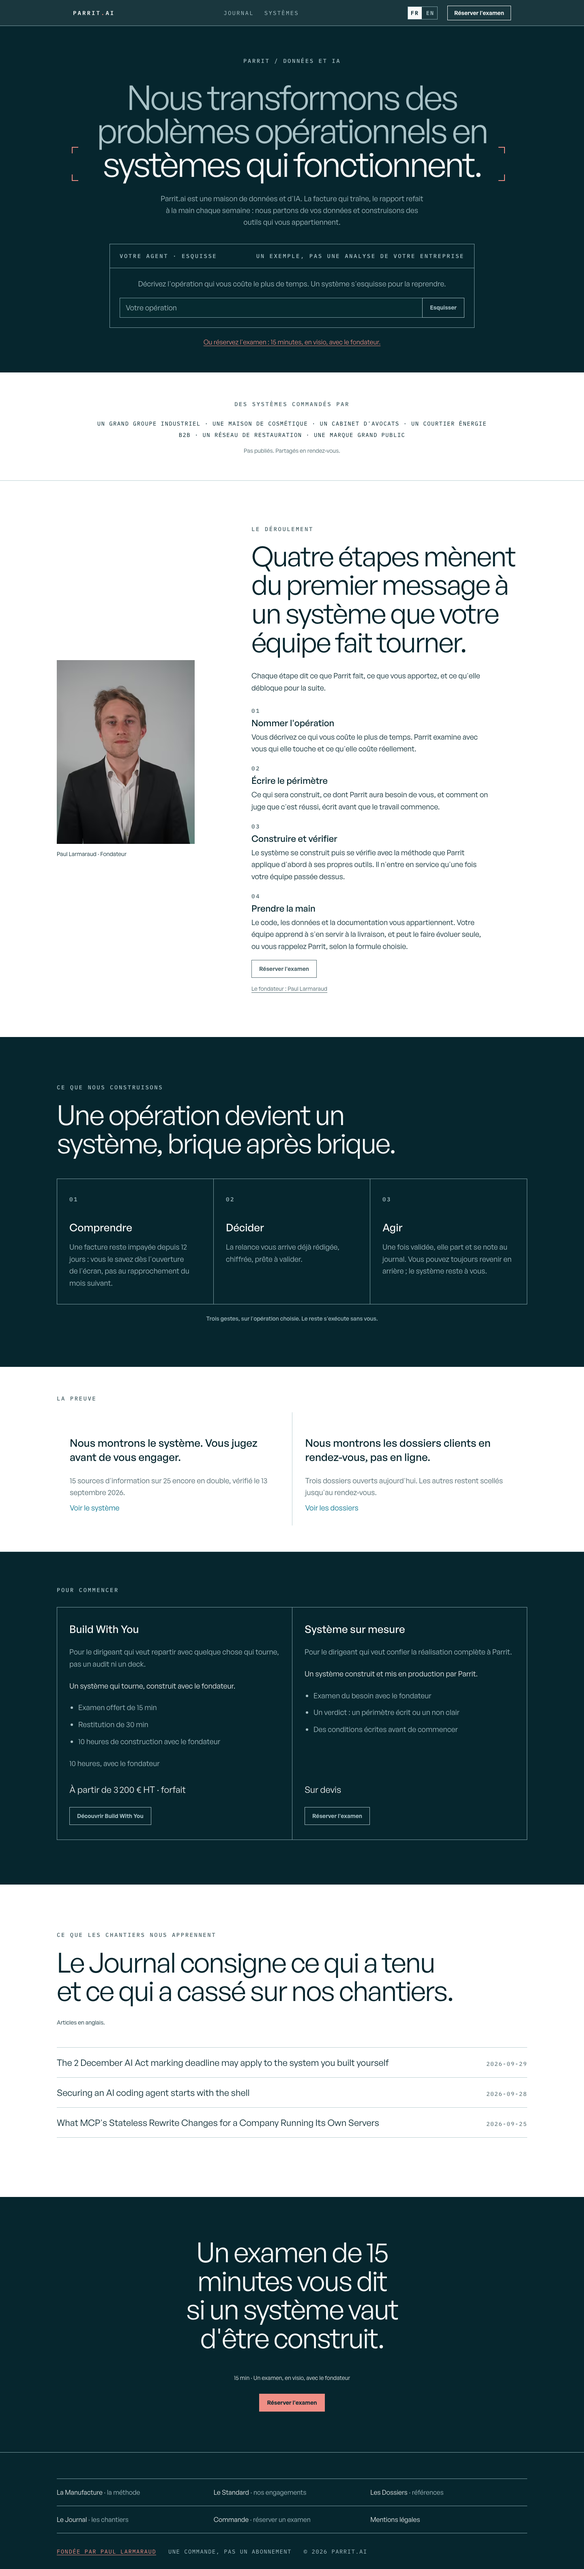
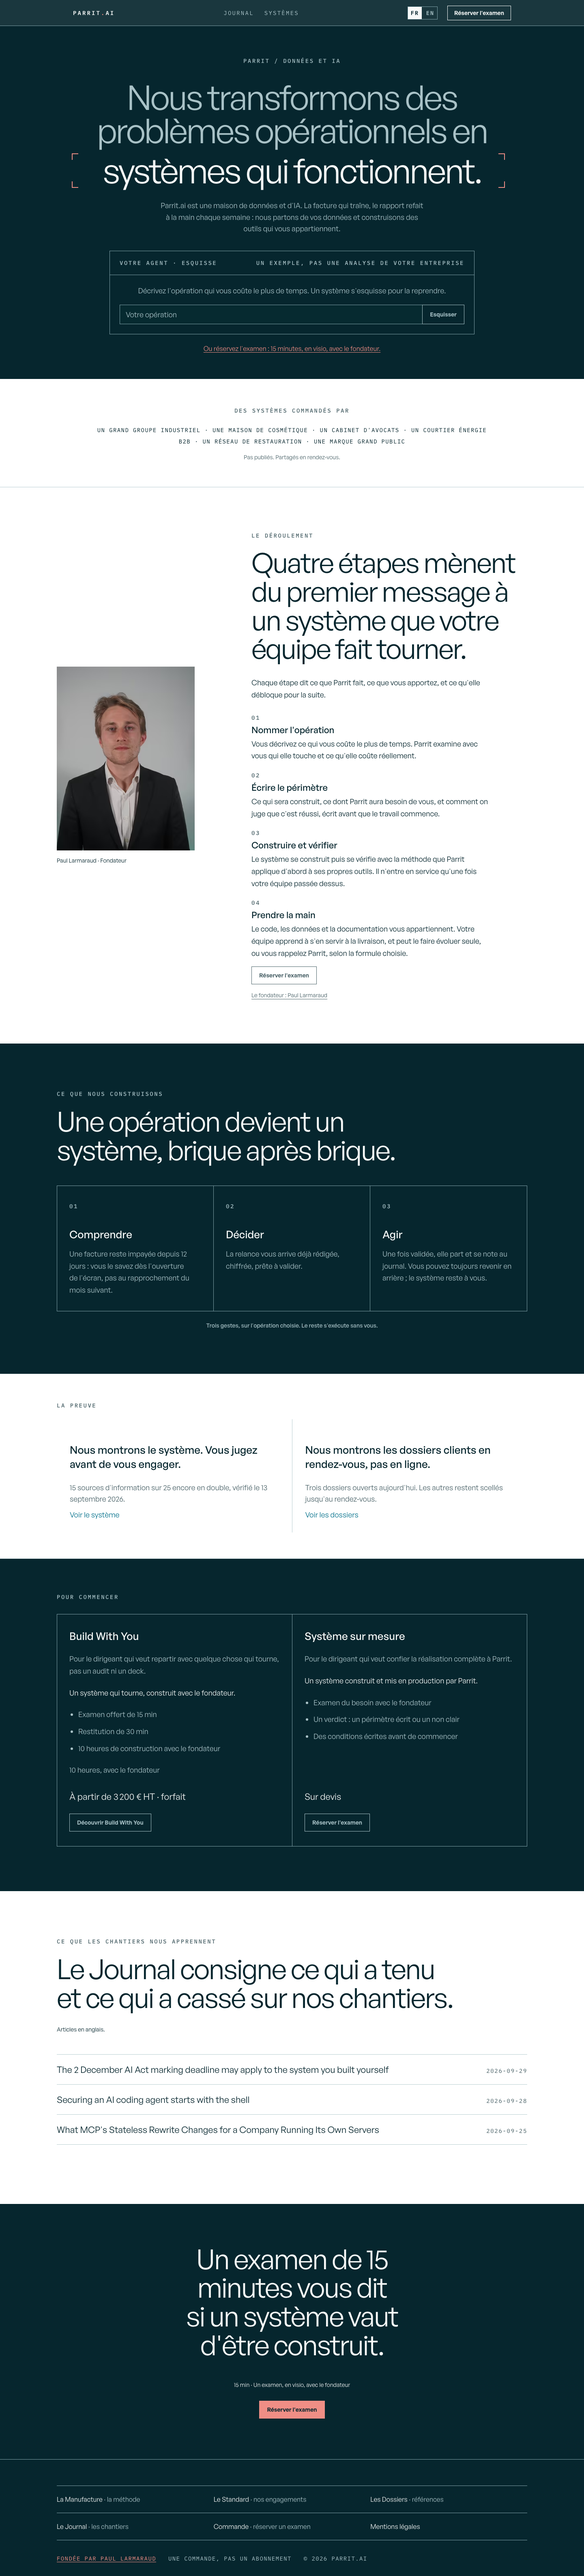
codex: implémente docs/CODEX-SPEC-2026-10-04-parrit-ai-photo-dv01-dv02-v1.md
Via pont headless codex-handoff.sh. Batterie verte.

diff --git a/tests/brand-os.spec.ts b/tests/brand-os.spec.ts
@@ -173,6 +173,13 @@ for (const width of [375, 390, 768, 1440]) {
       await expect(h1.locator(".frame")).toHaveCSS("display", "inline-block");
       await expect(h1.locator(".frame")).toHaveCSS("white-space", "nowrap");
       await expect(h1.locator(".frame")).toHaveText(route === "/fr" ? "systèmes qui fonctionnent" : "systems that work");
+      const ending = h1.locator(".home-s-hero-ending");
+      await expect(ending).toHaveCSS("display", "block");
+      const headingBox = await h1.boundingBox();
+      const endingBox = await ending.boundingBox();
+      expect(headingBox).not.toBeNull();
+      expect(endingBox).not.toBeNull();
+      expect(Math.abs(endingBox!.x + endingBox!.width / 2 - headingBox!.x - headingBox!.width / 2)).toBeLessThanOrEqual(1);
       const frameGeometry = await h1.locator(".frame").evaluate((frame) => {
         const bounds = frame.getBoundingClientRect();
         const fx = frame.querySelector(".fx");
@@ -186,6 +193,22 @@ for (const width of [375, 390, 768, 1440]) {
           range.selectNodeContents(node);
           for (const rect of range.getClientRects()) {
             textRects.push({ left: rect.left, right: rect.right, top: rect.top, bottom: rect.bottom });
+          }
+        }
+        // FIX6: include every non-whitespace glyph, even outside the frame.
+        const heading = frame.closest("h1");
+        if (!heading) throw new Error("Missing heading");
+        const glyphs: { left: number; right: number; top: number; bottom: number; framed: boolean; word: boolean }[] = [];
+        const headingWalker = document.createTreeWalker(heading, NodeFilter.SHOW_TEXT);
+        while ((node = headingWalker.nextNode())) {
+          for (const match of (node.textContent ?? "").matchAll(/\S/gu)) {
+            const range = document.createRange();
+            range.setStart(node, match.index!);
+            range.setEnd(node, match.index! + match[0].length);
+            for (const rect of range.getClientRects()) {
+              glyphs.push({ left: rect.left, right: rect.right, top: rect.top, bottom: rect.bottom,
+                framed: frame.contains(node), word: /\p{L}/u.test(match[0]) });
+            }
           }
         }
         // Pseudo-elements have no DOMRect API. Reconstruct their border boxes
@@ -203,10 +226,17 @@ for (const width of [375, 390, 768, 1440]) {
           const top = style.top !== "auto" ? bounds.top + parseFloat(style.top) : bounds.bottom - parseFloat(style.bottom) - height;
           return { left, right: left + width, top, bottom: top + height };
         }));
-        return { textRects, corners };
+        return { textRects, corners, glyphs };
       });
       expect(frameGeometry.textRects).toHaveLength(1);
       expect(frameGeometry.corners).toHaveLength(4);
+      expect(frameGeometry.glyphs.some((glyph) => !glyph.framed && glyph.word)).toBe(true);
+      // No unframed word may share the framed group's line (punctuation may).
+      for (const glyph of frameGeometry.glyphs.filter((glyph) => !glyph.framed && glyph.word)) {
+        for (const text of frameGeometry.textRects) {
+          expect(Math.abs(glyph.top - text.top)).toBeGreaterThan(1);
+        }
+      }
       for (const corner of frameGeometry.corners) {
         expect(corner.right).toBeGreaterThan(corner.left);
         expect(corner.bottom).toBeGreaterThan(corner.top);
@@ -215,6 +245,10 @@ for (const width of [375, 390, 768, 1440]) {
         // FIX5: screen inset, independent of the section's responsive gutter.
         expect(corner.left).toBeGreaterThanOrEqual(16);
         expect(corner.right).toBeLessThanOrEqual(width - 16);
+        for (const glyph of frameGeometry.glyphs) {
+          const intersects = corner.left < glyph.right && corner.right > glyph.left && corner.top < glyph.bottom && corner.bottom > glyph.top;
+          expect(intersects, JSON.stringify({ corner, glyph })).toBe(false);
+        }
         for (const text of frameGeometry.textRects) {
           const intersects = corner.left < text.right && corner.right > text.left && corner.top < text.bottom && corner.bottom > text.top;
           expect(intersects, JSON.stringify({ corner, text })).toBe(false);

diff --git a/src/app/(rev01)/page.tsx b/src/app/(rev01)/page.tsx
@@ -209,7 +209,9 @@ export default async function HomePage() {
           <K>{copy.hero.kicker}</K>
           <h1>
             <span>{copy.hero.before} </span>
-            <span className="frame">{copy.hero.frame}<i className="fx" aria-hidden="true" /></span>{copy.hero.after}
+            <span className="home-s-hero-ending">
+              <span className="frame">{copy.hero.frame}<i className="fx" aria-hidden="true" /></span>{copy.hero.after}
+            </span>
           </h1>
           <p className="home-s-hero-sub">{copy.hero.sub}</p>
           <AgentEsquisse locale={locale} />

diff --git a/src/app/(rev01)/rev01.css b/src/app/(rev01)/rev01.css
@@ -1750,6 +1750,13 @@ a.k:active {
   color: var(--g2);
 }
 
+.home-s-hero-ending {
+  display: block;
+  width: fit-content;
+  margin-inline: auto;
+  margin-top: 0.2em;
+}
+
 .home-s-hero h1 .frame {
   display: inline-block;
   /* Clear the 14px corners by at least 12px at the smallest (30px) H1.

diff --git a/docs/REPORT-2026-10-04-photo-dv01-dv02.md b/docs/REPORT-2026-10-04-photo-dv01-dv02.md
@@ -330,3 +330,134 @@ captures navigateur. Aucun serveur démarré dans ce sandbox, conformément au
 contexte du dépôt. La validation visuelle reste à exécuter sur l'hôte avec le
 serveur local sur 3210 : marge écran ≥16 px et séparation texte ≥12 px aux
 quatre largeurs, FR/EN. Aucune preuve de production revendiquée.
+
+## Reprise FIX6 — 04/10/2026
+
+Source : section FIX6 de la spec locale, déjà modifiée à l'arrivée ; cette
+modification utilisateur est conservée. Le code présent implémentait le lot
+initial et FIX1–FIX5. Plan : baseline, correction locale de la ligne du H1,
+extension des huit parcours existants, contrôles et rapport. Une itération.
+Écriture : checkout local uniquement ; aucune donnée métier, aucun système
+client, aucune écriture distante. Changements réversibles par retrait du diff
+de cette passe. Aucun commit, push ni déploiement.
+
+Fichiers modifiés :
+
+- `src/app/(rev01)/page.tsx` : wrapper autour du cadre et du point final pour
+  garder la ponctuation sur la même ligne, sans changer le texte du H1.
+- `src/app/(rev01)/rev01.css` : wrapper en bloc, largeur `fit-content`, marges
+  automatiques. Le cadre conserve ses dimensions et son retrait intérieur.
+- `tests/brand-os.spec.ts` : avant, non-intersection des coins avec seulement
+  le texte encadré ; après, contrôle supplémentaire de chaque glyphe du H1
+  par Range, ponctuation comprise. Centrage du bloc à ±1 px et absence de mot
+  extérieur sur sa ligne également vérifiés. Les huit parcours FR/EN à
+  375/390/768/1440 px conservent les contrôles photo, légende, mots par ligne,
+  marge écran ≥16 px, séparation ≥12 px, débordement et deny-all réseau.
+- `AI_CONTEXT.md` et ce rapport : état FIX6 et résultats.
+
+Aucun texte attendu n'est remplacé dans les tests ; aucun seuil existant n'est
+assoupli. Journal inchangé, notamment « What is a company operating system? ».
+Le grep prescrit dans `src scripts` ne trouve aucune correspondance.
+
+| Vérification | Résultat de cette passe |
+|---|---|
+| Baseline `test:brand-os` | 13/13 réussis. |
+| Parcours photo/titre avant et après | Chromium refusé avant navigation. |
+| `npm run lint`, `npx tsc --noEmit` | Réussis. |
+| `npm run qa:claims:rev01`, `npm run qa:brand:rev01` | Réussis. |
+| `npm run build -- --webpack` | Réussi, 54 pages ; avertissement metadataBase préexistant. |
+| `npm run test:brand-os` après build | 13/13 réussis. |
+| `test:doctrine`, `test:privacy`, `test:entity` | 10/10, 9/9, 7/7 ; 39 tests Node au total avec Brand OS. |
+| `npm run qa:network:rev01 -- --workers=1 --max-failures=1` | 1 échec de lancement Chromium, 172 cas non exécutés. |
+| `git diff --check` | Réussi. |
+
+Logs : `/tmp/photo-fix6-*.log`. Le premier filtre de baseline navigateur
+(`home labels`) ne sélectionnait aucun cas ; il a été corrigé en
+`approved founder photo` avant modification du code.
+
+Blocage : Chromium est refusé par macOS (`MachPortRendezvousServer: Permission
+denied (1100)`). Aucune mesure ni capture navigateur n'a pu être produite ;
+le build ne prouve pas la géométrie. PRODUCTION_PROOF encore à obtenir sur
+l'hôte : batterie réseau verte avec serveur local sur 3210, inspection des
+captures FR/EN aux quatre largeurs, groupe seul sur sa ligne et aucun coin
+sur les glyphes de l'ensemble du H1. Aucun serveur lancé dans ce sandbox,
+conformément au contexte du dépôt. La validation visuelle reste ouverte.
+
+## Reprise FIX7 — 04/10/2026
+
+La section FIX7 de la spec locale demande uniquement une marge haute de
+`0.12em` sur le bloc encadré. FIX1–FIX6 et les changements non commités présents
+à l'arrivée sont conservés, y compris la spec, les tests et les captures.
+Plan exécuté : baseline, correction CSS unique, mêmes contrôles, rapport.
+Une itération ; aucune écriture distante ni donnée métier touchée. La correction
+est réversible en retirant cette seule déclaration CSS. Aucun commit, push ou
+déploiement. Aucun serveur démarré dans ce sandbox.
+
+Fichiers modifiés pendant cette passe :
+
+- `src/app/(rev01)/rev01.css` : `margin-top: 0.12em` ajouté à
+  `.home-s-hero-ending`, pour dégager les coins supérieurs de la ligne précédente.
+- `AI_CONTEXT.md` et ce rapport : résultats et limite de validation FIX7.
+
+Tests ajoutés ou modifiés : aucun, conformément à FIX7 (« le test reste tel
+quel »). Les huit parcours FR/EN à 375/390/768/1440 px conservent leur contrôle
+de chaque glyphe du H1, sans assouplissement des seuils ni changement de texte.
+
+| Vérification | Résultat de cette passe |
+|---|---|
+| Baseline `npm run test:brand-os` | 13/13 réussis. |
+| Baseline navigateur, filtre `approved founder photo` | Chromium refusé avant navigation. |
+| `npm run lint`, `npx tsc --noEmit` | Réussis. |
+| `npm run qa:claims:rev01`, `npm run qa:brand:rev01` | Réussis. |
+| `npm run build -- --webpack` | Réussi, 54 pages ; avertissement metadataBase préexistant. |
+| `npm run test:brand-os` après build | 13/13 réussis. |
+| `test:doctrine`, `test:privacy`, `test:entity` | 10/10, 9/9, 7/7 ; 39 tests Node au total avec Brand OS. |
+| `npm run qa:network:rev01 -- --workers=1 --max-failures=1` | Échec au lancement Chromium, 172 cas non exécutés. |
+| `git diff --check` | Réussi. |
+| Grep prescrit dans `src scripts` | Aucune correspondance. |
+
+Logs : `/tmp/photo-fix7-*.log`. Le Journal reste inchangé, dont « What is a
+company operating system? ». Le refus macOS
+`MachPortRendezvousServer: Permission denied (1100)` empêche toute mesure ou
+capture navigateur. PRODUCTION_PROOF à obtenir sur l'hôte : batterie réseau
+sur le serveur local 3210, puis vérification FR/EN aux quatre largeurs que
+les coins ne recoupent aucun glyphe du H1. Le build ne prouve pas cette géométrie.
+
+
+## Reprise FIX8 — 04/10/2026
+
+Source : section FIX8 de la spec locale, sur le checkout explicitement demandé
+(`HEAD b7a922a53edb4b2520fe7be5926c8a2c7df803bc` avec changements existants).
+La seule correction fonctionnelle de cette passe porte `margin-top` de
+`.home-s-hero-ending` de `0.12em` à `0.2em` dans `src/app/(rev01)/rev01.css`.
+Les corrections FIX1–FIX7, la spec, les tests et les captures déjà modifiés
+sont préservés. `AI_CONTEXT.md` et ce rapport documentent cette reprise.
+
+Plan exécuté : baseline, correction unique, mêmes contrôles, rapport ; une
+itération. Écriture limitée au checkout local, aucune donnée métier ni écriture
+distante. Retour arrière : remettre uniquement cette marge à `0.12em`.
+Aucun commit, push, déploiement ni serveur lancé dans le sandbox.
+
+Tests ajoutés ou modifiés : aucun, conformément à FIX8 (« le test reste tel
+quel »). Les huit parcours FR/EN à 375/390/768/1440 px conservent les assertions
+sur tous les glyphes du H1, le centrage et les marges, sans modification de seuil.
+
+| Vérification | Résultat de cette passe |
+|---|---|
+| Baseline `npm run test:brand-os` | 13/13 réussis. |
+| Baseline navigateur, filtre `approved founder photo` | Chromium refusé avant navigation. |
+| `npm run lint`, `npx tsc --noEmit` | Réussis. |
+| `npm run qa:claims:rev01`, `npm run qa:brand:rev01` | Réussis. |
+| `npm run build -- --webpack` | Réussi, 54 pages ; avertissement metadataBase préexistant. |
+| `npm run test:brand-os` après build | 13/13 réussis. |
+| `test:doctrine`, `test:privacy`, `test:entity` | 10/10, 9/9, 7/7 ; 39 tests Node au total avec Brand OS. |
+| `npm run qa:network:rev01 -- --workers=1 --max-failures=1` | Échec au lancement Chromium, 172 cas non exécutés. |
+| `git diff --check` | Réussi. |
+| Grep prescrit dans `src scripts` | Aucune correspondance. |
+
+Logs : `/tmp/photo-fix8-*.log`. Journal inchangé, notamment « What is a company
+operating system? ». Le refus macOS `MachPortRendezvousServer: Permission denied
+(1100)` bloque toute mesure ou capture navigateur. PRODUCTION_PROOF reste à
+obtenir sur l’hôte : batterie réseau avec serveur local sur 3210 et contrôle
+FR/EN aux quatre largeurs que les coins ne recoupent aucun glyphe du H1.
+Le build et les tests Node ne prouvent pas cette géométrie.

diff --git a/docs/CODEX-SPEC-2026-10-04-parrit-ai-photo-dv01-dv02-v1.md b/docs/CODEX-SPEC-2026-10-04-parrit-ai-photo-dv01-dv02-v1.md
@@ -9,6 +9,23 @@ partout où il est (`RevFooter`, `CalInline`, `sketch/[id]`, `opengraph-image.ts
 Ne pas toucher non plus : prix, durées, offres, `QuickCapture`/`AgentEsquisse` (comportement), Journal, tokens, polices,
 routes, ni les acquis de #300 (boutons, libellé « Réserver l'examen », un éclat rose par écran).
 
+## FIX8 (04/10) — sur le travail FIX7 présent (ne rien refaire)
+Mesure : avec `0.12em`, les coins recoupent encore la boîte de la ligne précédente de 0,4 px (390) et 1,6 px (1440).
+Porter la marge haute du bloc encadré à `0.2em`. Rien d'autre ne change, le test reste tel quel.
+
+## FIX7 (04/10) — sur le travail FIX6 présent (ne rien refaire)
+Rendu visuel correct (vérifié par Claude, FR/EN, 390 et 1440). Le test échoue d'environ 3 px : les coins supérieurs du
+cadre entrent dans la boîte de contenu de la ligne précédente (zone des jambages). Ajouter au bloc encadré une marge
+haute de `0.12em` (et rien d'autre) pour que les coins sortent de cette boîte ; le test reste tel quel (aucun coin ne
+recoupe aucun rectangle de glyphe du H1).
+
+## FIX6 (04/10) — sur le travail FIX5 présent (ne rien refaire)
+En EN à 375 px, le crochet gauche chevauche « into », mot NON encadré qui partage la ligne du groupe encadré (« into
+systems that work. »). Le groupe encadré se place toujours sur sa propre ligne, centré (`display: block; width:
+fit-content; margin-inline: auto` ou équivalent), en FR et en EN, à toutes les largeurs : aucun mot hors cadre ne
+partage sa ligne. Étendre l'assertion du test : aucun coin ne recoupe AUCUN glyphe du H1 (pas seulement le texte
+encadré), à 375, 390, 768 et 1440 px, FR et EN.
+
 ## FIX5 (04/10) — sur le travail FIX4 présent (ne rien refaire)
 Seul échec : `brand-os.spec.ts:218` à 768 px FR (coin gauche 65,7 px contre gouttière 74 px). L'exigence « dans la
 gouttière de page » venait du FIX4 et dépasse la règle (rien ne touche rien). Remplacer l'assertion `corner.left >=

diff --git a/AI_CONTEXT.md b/AI_CONTEXT.md
@@ -354,3 +354,24 @@ gouttière FIX4 par une marge écran minimale de 16 px pour chaque coin du H1.
 Les huit parcours FR/EN conservent non-intersection et séparation texte ≥12 px.
 CSS inchangé. Build Webpack, lint, types et 39 tests Node passent ; validation
 navigateur toujours bloquée au lancement de Chromium (voir rapport FIX5).
+
+FIX6 photo (04/10) : le groupe encadré du H1 et son point final sont réunis dans
+un bloc centré (`home-s-hero-ending`), sur leur propre ligne en FR/EN. Les huit
+parcours à 375/390/768/1440 px vérifient désormais chaque glyphe du H1 contre
+les quatre coins, ainsi que le centrage et l'absence de mot extérieur sur la
+ligne encadrée. Marges écran ≥16 px et séparation du texte encadré ≥12 px
+conservées. Voir la reprise FIX6 du rapport photo pour les résultats et la
+limite de validation navigateur dans le sandbox.
+
+FIX7 photo (04/10) : ajout de `margin-top: 0.12em` au bloc
+`home-s-hero-ending`, seule correction fonctionnelle demandée. Tests FIX6
+inchangés. Build Webpack, types, lint, claims, marque et 39 tests Node passent.
+Chromium reste bloqué au lancement par le sandbox macOS ; la non-intersection
+des coins avec tous les glyphes du H1 reste à vérifier sur l'hôte.
+
+
+FIX8 photo (04/10) : la marge haute de `home-s-hero-ending` passe de `0.12em`
+à `0.2em`, seule correction fonctionnelle demandée ; tests FIX6 inchangés.
+Build Webpack, lint, types, claims, marque et 39 tests Node passent. La batterie
+navigateur reste bloquée au lancement de Chromium par macOS ; la géométrie
+reste à valider sur l’hôte. Voir la reprise FIX8 du rapport photo.
